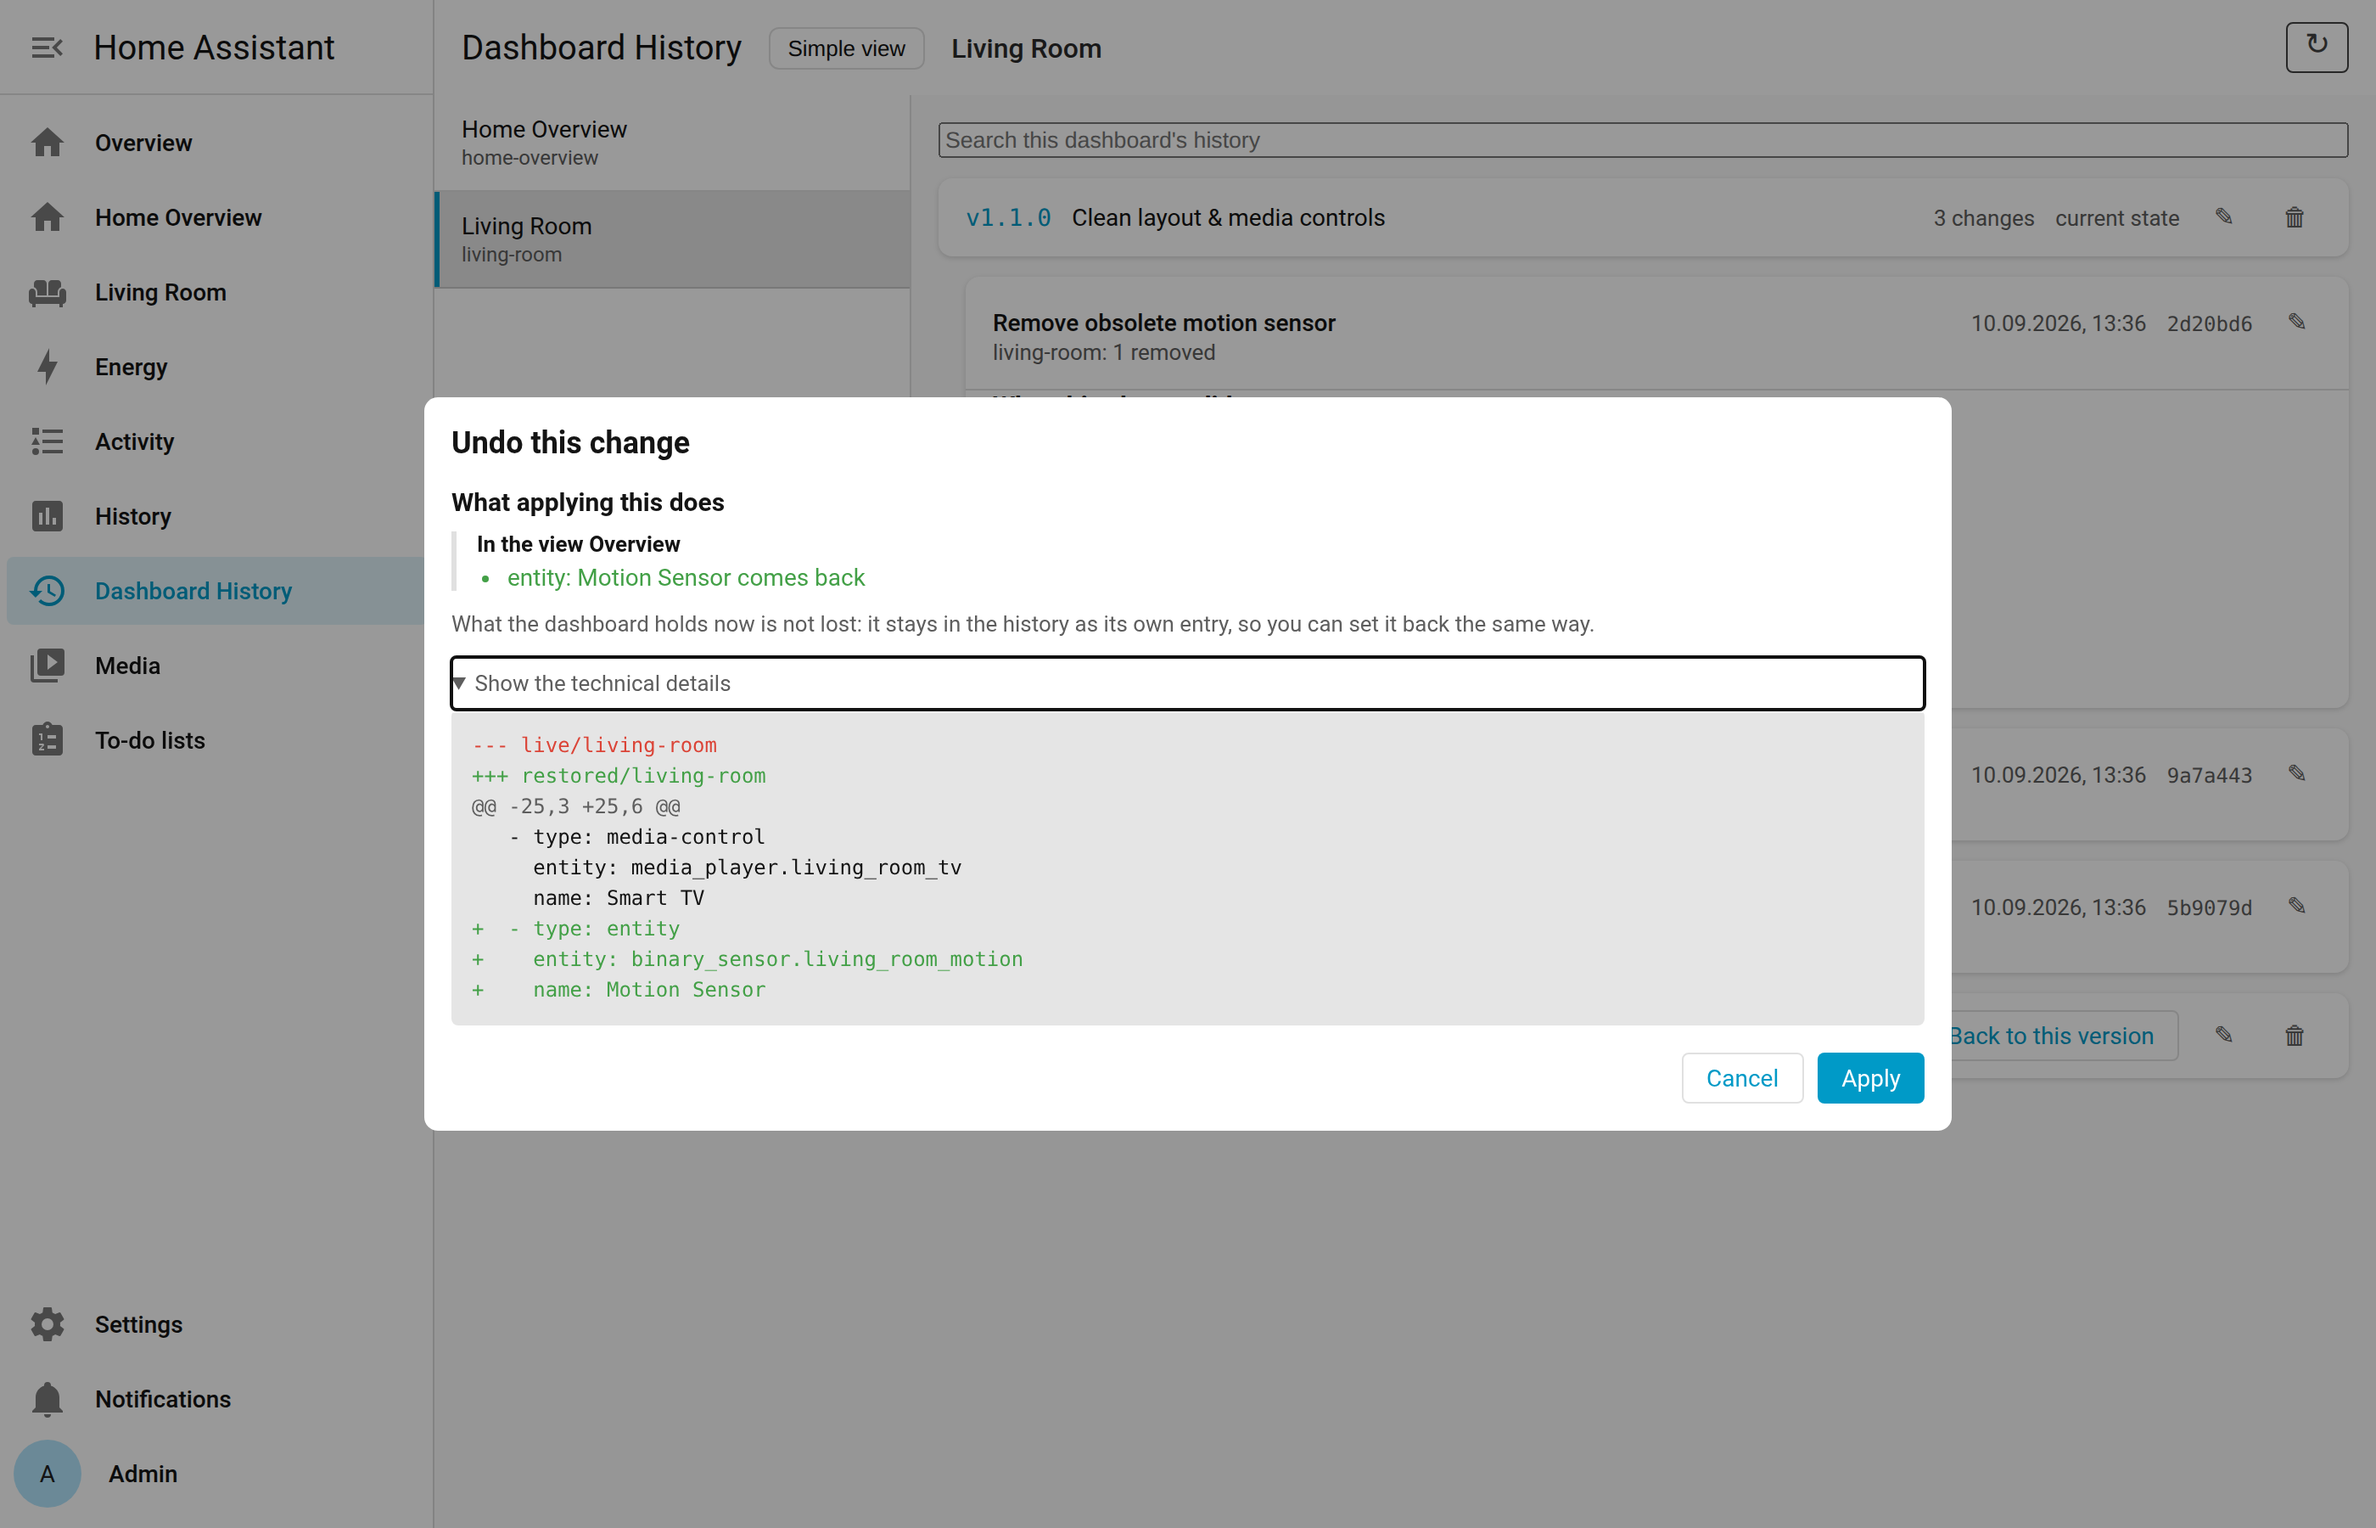
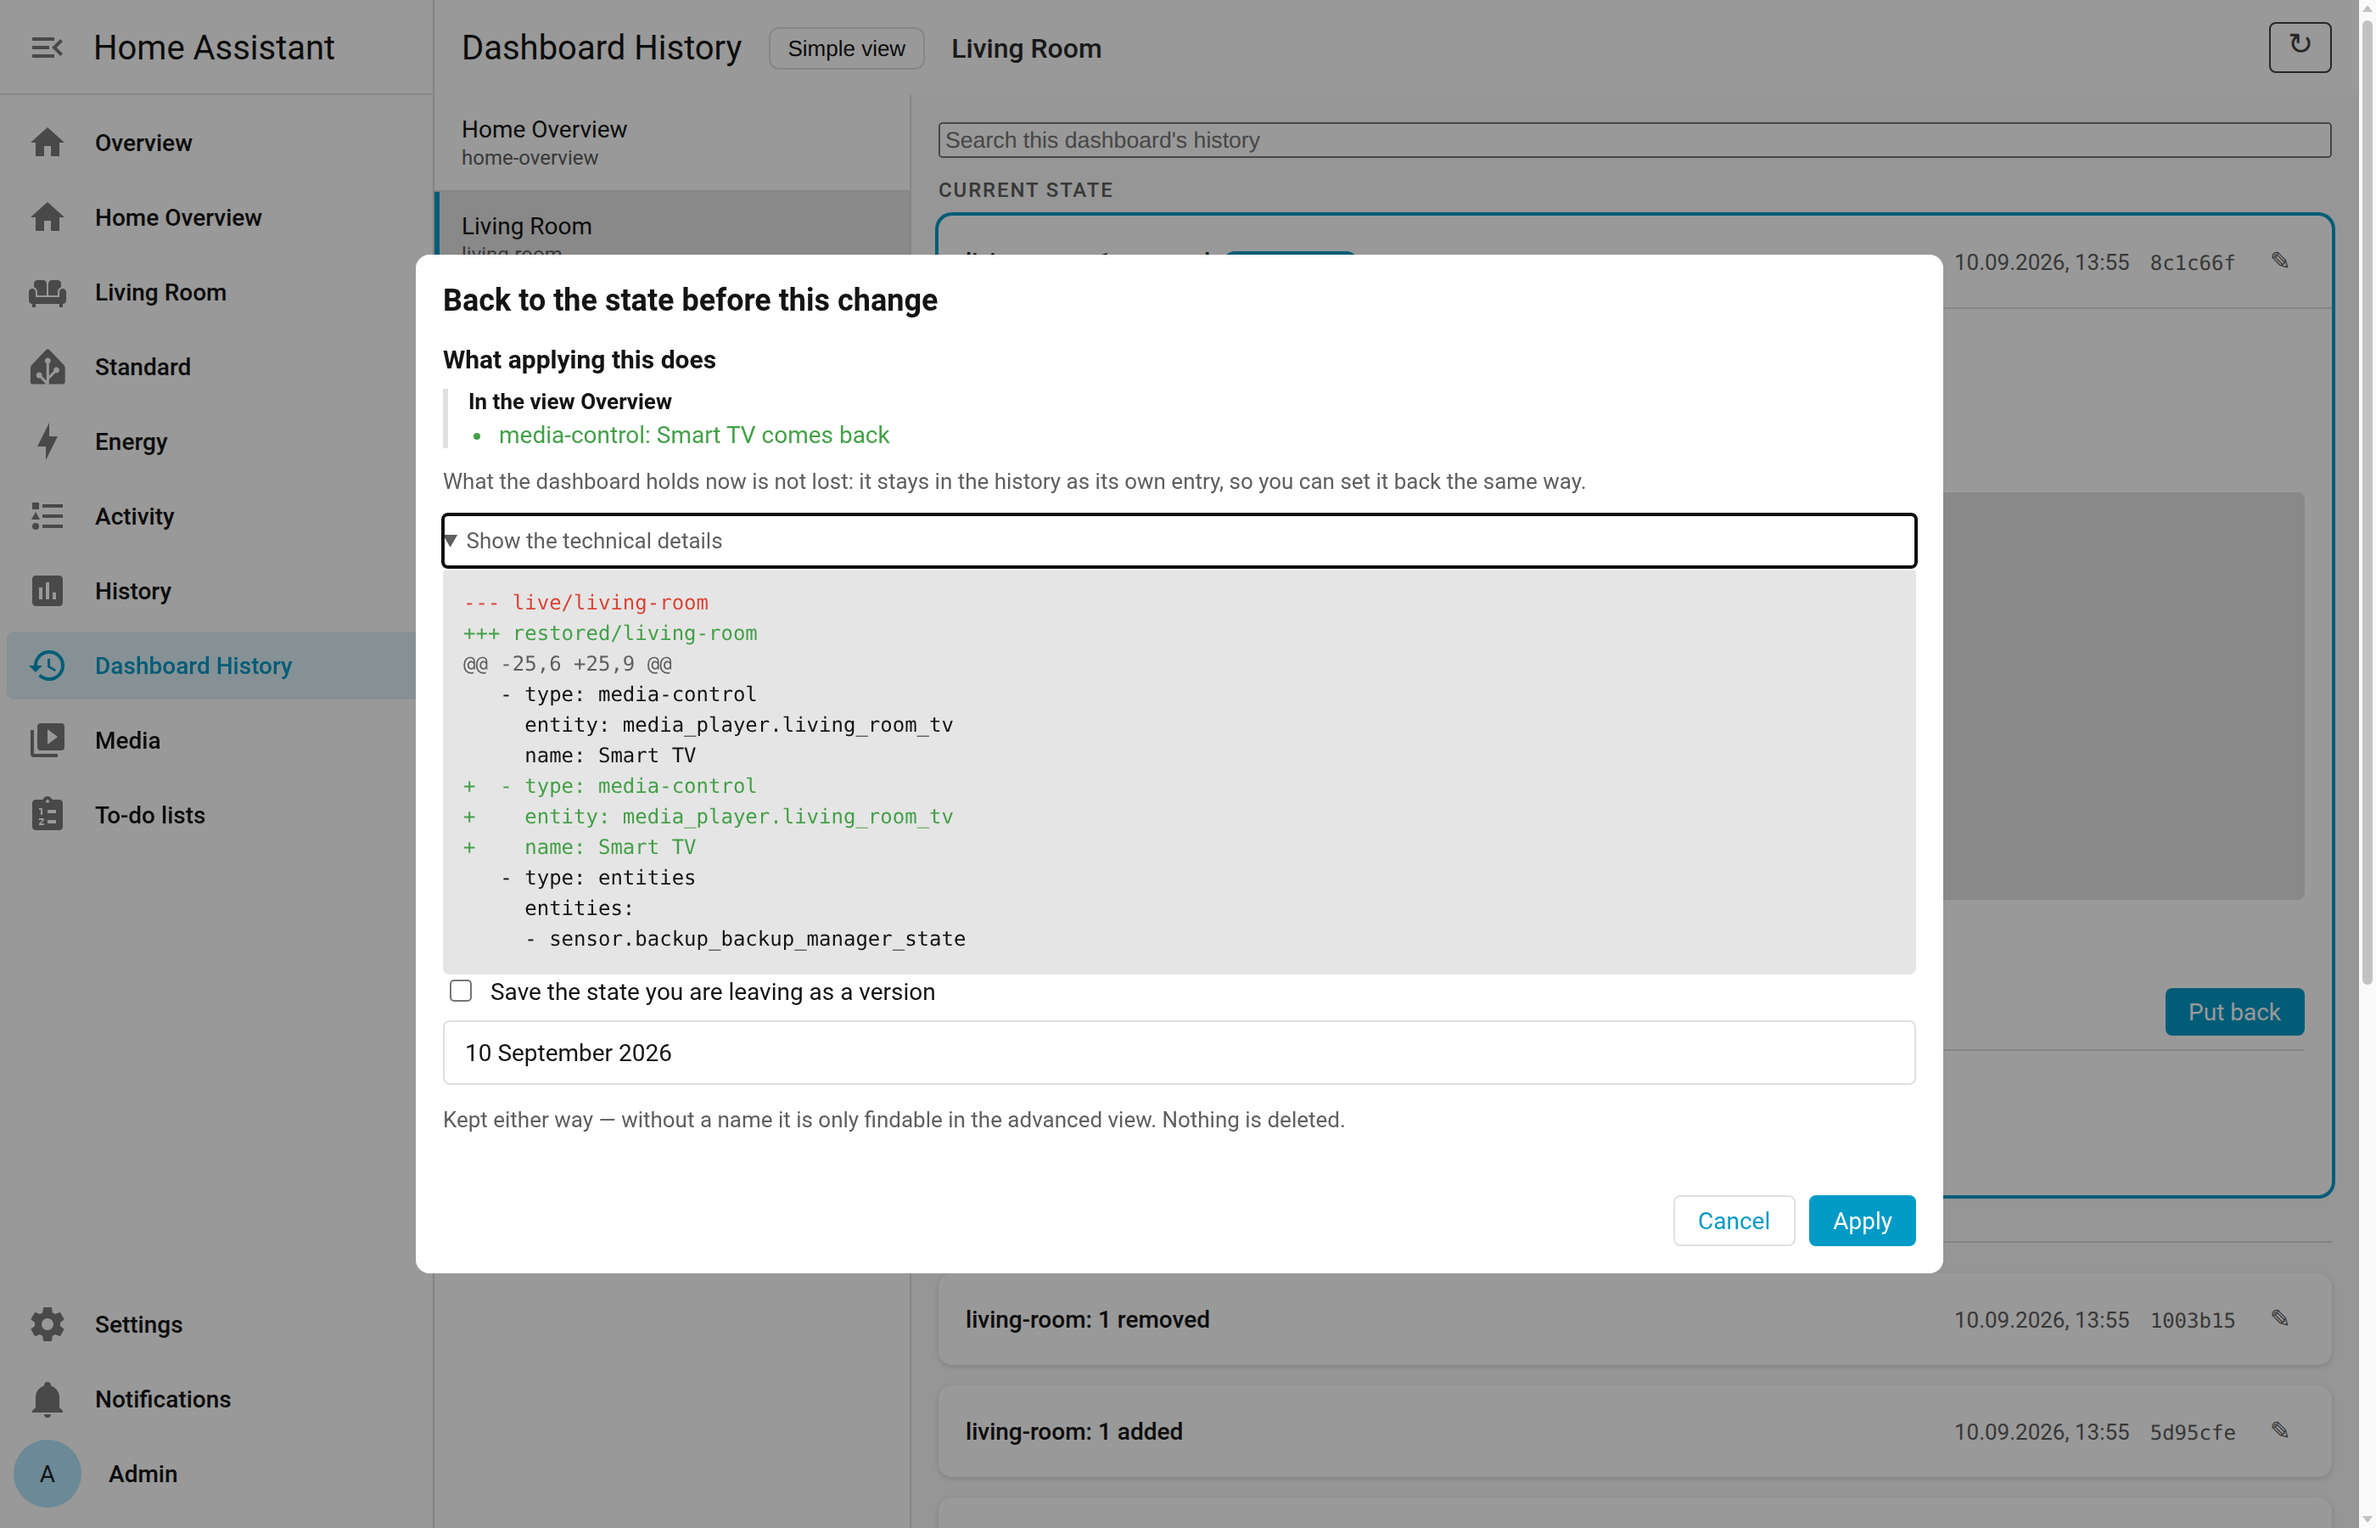
Add collapsible technical diff view in revision details
- Generate unified diff in operations.async_explain / _explain_texts
- Render collapsible technical diff under 'What this change did' in Advanced View
- Preserve _diffOpen toggle state across background re-renders
- Style .detail details.raw pre with scrolling and max-height
- Update automated panel behavior tests and demo documentation screenshots

diff --git a/custom_components/dashboard_history/panel.js b/custom_components/dashboard_history/panel.js
@@ -183,6 +183,7 @@ class DashboardHistoryPanel extends HTMLElement {
     this._undo = null;
     this._loadingDetail = null;
     this._loadingUndo = null;
+    this._diffOpen = false;
     // How this user has arranged their sidebar, as `frontend/get_user_data`
     // answers it, or null while it has not been read or could not be.
     // See `_loadSidebar`.
@@ -1056,6 +1057,7 @@ class DashboardHistoryPanel extends HTMLElement {
     this._undo = null;
     this._loadingDetail = null;
     this._loadingUndo = null;
+    this._diffOpen = false;
   }
 
   _take(answers) {
@@ -2179,8 +2181,17 @@ class DashboardHistoryPanel extends HTMLElement {
              known: the answer did not arrive. Any message above says
              why, and the reload button asks again.</p>`;
 
+    const technical =
+      this._explanation && this._explanation.diff != null
+        ? `<details class="raw"${this._diffOpen ? " open" : ""}>
+             <summary>Show the technical details</summary>
+             ${renderDiff(this._explanation.diff)}
+           </details>`
+        : "";
+
     return `<div class="detail">
       ${plain}
+      ${technical}
       ${offer}
       ${list}
       ${this._renderSetBack(change)}
@@ -2544,6 +2555,11 @@ class DashboardHistoryPanel extends HTMLElement {
       element.addEventListener("toggle", () => {
         if (element.open) this._verOpen.add(key);
         else this._verOpen.delete(key);
+      });
+    });
+    root.querySelectorAll(".detail details.raw").forEach((element) => {
+      element.addEventListener("toggle", () => {
+        this._diffOpen = element.open;
       });
     });
     // Every click below is wired the same way, so the wiring is written

diff --git a/custom_components/dashboard_history/panel/style.js b/custom_components/dashboard_history/panel/style.js
@@ -469,6 +469,12 @@ export const STYLE = `
     font-size: 13px;
     cursor: pointer;
   }
+  .detail details.raw pre {
+    margin-top: 4px;
+    margin-bottom: 8px;
+    max-height: 400px;
+    overflow: auto;
+  }
   pre .add { color: var(--success-color, #0f9d58); }
   pre .del { color: var(--error-color, #db4437); }
   pre .at { color: var(--secondary-text-color, #727272); }

diff --git a/tests/integration/capture_demo_screenshots.py b/tests/integration/capture_demo_screenshots.py
@@ -208,13 +208,19 @@ async def main():
             await page.js(expand_js)
             await page.settle(f'!!{PANEL}.querySelector(".detail")')
             await page.settle(f'{ELEMENT}._busy === 0')
+            # Open the new technical diff inside the detail card
+            await page.js(
+                f'(() => {{ const raw = {PANEL}.querySelector(".detail details.raw"); if (raw) raw.open = true; }})()'
+            )
             await asyncio.sleep(1.0)
             print("Capturing 02-diff-expanded-light.png...")
             await page.shot("02-diff-expanded-light.png")
 
             # 3. Restore Dialog Light
             print("3. Opening undo/restore dialog...")
-            await page.js(f'{PANEL}.querySelector(".detail [data-undo]").click()')
+            await page.js(
+                f'(() => {{ const btn = {PANEL}.querySelector(".detail [data-undo]") || {PANEL}.querySelector(".detail [data-state]"); if (btn) btn.click(); }})()'
+            )
             await page.settle(f'{PANEL}.querySelector("dialog.confirm")?.open')
             await page.settle(f'!!{PANEL}.querySelector("dialog.confirm .plain")')
             # Open the raw diff details inside the dialog
@@ -274,13 +280,18 @@ async def main():
             await page.js(expand_js)
             await page.settle(f'!!{PANEL}.querySelector(".detail")')
             await page.settle(f'{ELEMENT}._busy === 0')
+            await page.js(
+                f'(() => {{ const raw = {PANEL}.querySelector(".detail details.raw"); if (raw) raw.open = true; }})()'
+            )
             await asyncio.sleep(1.0)
             print("Capturing 06-diff-expanded-dark.png...")
             await page.shot("06-diff-expanded-dark.png")
 
             # 8. Restore Dialog Dark
             print("8. Opening undo/restore dialog (Dark)...")
-            await page.js(f'{PANEL}.querySelector(".detail [data-undo]").click()')
+            await page.js(
+                f'(() => {{ const btn = {PANEL}.querySelector(".detail [data-undo]") || {PANEL}.querySelector(".detail [data-state]"); if (btn) btn.click(); }})()'
+            )
             await page.settle(f'{PANEL}.querySelector("dialog.confirm")?.open')
             await page.settle(f'!!{PANEL}.querySelector("dialog.confirm .plain")')
             await page.js(

diff --git a/custom_components/dashboard_history/operations.py b/custom_components/dashboard_history/operations.py
@@ -1153,10 +1153,10 @@ async def async_explain(
     """
     full = await hass.async_add_executor_job(store.resolve, revision)
     if full is None:
-        return {"groups": [], "note": "", "error": f"unknown revision: {revision}"}
+        return {"groups": [], "note": "", "diff": "", "error": f"unknown revision: {revision}"}
     before = await hass.async_add_executor_job(store.previous_change, key, full)
     if before is None:
-        return {"groups": [], "note": "This is the first recorded state."}
+        return {"groups": [], "note": "This is the first recorded state.", "diff": ""}
 
     # Deliberately not `_state_at`, which reports an absent state as an
     # error. Here an absent state *is* the answer: at a deletion commit
@@ -1166,12 +1166,22 @@ async def async_explain(
     # be the same class of mistake this project has fixed three times.
     old = await hass.async_add_executor_job(store.read_at, key, before)
     new = await hass.async_add_executor_job(store.read_at, key, full)
-    return await hass.async_add_executor_job(_explain_texts, old, new)
+    return await hass.async_add_executor_job(_explain_texts, old, new, key)
 
 
-def _explain_texts(old: str | None, new: str | None) -> dict:
-    """The change between two recorded texts, in words. Off the loop."""
-    return _as_dict(explain_change(load_state(old), load_state(new)))
+def _explain_texts(old: str | None, new: str | None, key: str = "") -> dict:
+    """The change between two recorded texts, in words and diff. Off the loop."""
+    explanation = _as_dict(explain_change(load_state(old), load_state(new)))
+    diff = "".join(
+        difflib.unified_diff(
+            (old or "").splitlines(keepends=True),
+            (new or "").splitlines(keepends=True),
+            fromfile=f"before/{key}" if key else "before",
+            tofile=f"after/{key}" if key else "after",
+        )
+    )
+    explanation["diff"] = diff
+    return explanation
 
 
 async def async_forget(

diff --git a/tests/test_panel_behaviour.py b/tests/test_panel_behaviour.py
@@ -3391,9 +3391,16 @@ const frame0 = rendered[rendered.length - 1];
 
 // Fast phase: resolve deleted_since and explain
 calls["deleted_since"]({ items: [{ label: "Old Card", kind: "card", position: 0 }] });
-calls["explain"]({ heading: "What this change did", groups: [] });
+calls["explain"]({
+  heading: "What this change did",
+  groups: [],
+  diff: "--- before/dash\\n+++ after/dash\\n@@ -1 +1 @@\\n-old\\n+new\\n",
+});
 await settle();
 const frame1 = rendered[rendered.length - 1];
+
+// User toggles the diff open while undo is still computing
+el._diffOpen = true;
 
 // Slow phase: resolve undo_change
 calls["undo_change"]({ available: true });
@@ -3425,6 +3432,20 @@ def test_expand_renders_explanation_while_undo_is_loading(progressive_expand):
     assert "Checking whether this change can be undone" in frame1["html"]
     assert "Whether this change can be taken back is not known" not in frame1["html"]
     assert "data-undo=" not in frame1["html"]
+
+
+def test_expand_renders_collapsible_technical_diff(progressive_expand):
+    frame1 = progressive_expand["frame1"]
+    assert 'details class="raw"' in frame1["html"]
+    assert "Show the technical details" in frame1["html"]
+    assert '<span class="del">-old</span>' in frame1["html"]
+    assert '<span class="add">+new</span>' in frame1["html"]
+
+
+def test_expand_preserves_diff_open_state_when_undo_resolves(progressive_expand):
+    frame2 = progressive_expand["frame2"]
+    assert 'details class="raw" open' in frame2["html"]
+    assert "Show the technical details" in frame2["html"]
 
 
 def test_expand_renders_undo_button_when_undo_resolves(progressive_expand):
